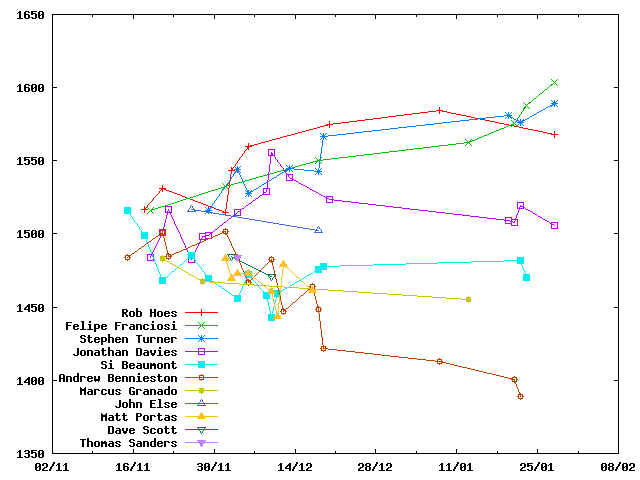
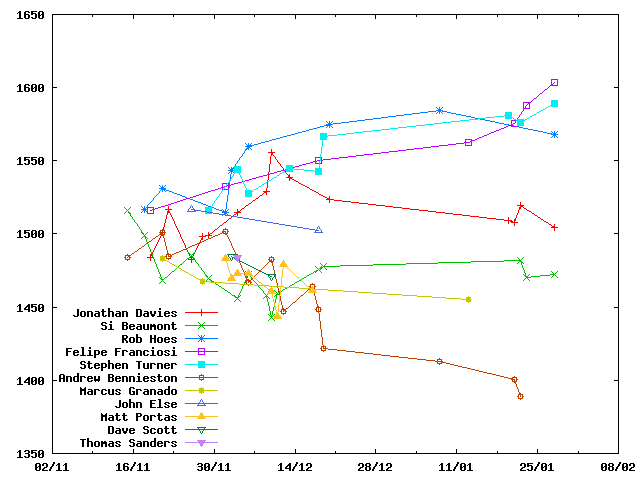
Travis build 88 pushed to gh-pages

diff --git a/index.md b/index.md
@@ -6,15 +6,16 @@ layout: default
      1.  Felipe Franciosi                   1603  (7 / 7)
      2.  Stephen Turner                     1589  (9.5 / 12)
      3.  Rob Hoes                           1568  (7 / 9)
-     4.  Jonathan Davies                    1505  (10 / 19)
+     4.  Jonathan Davies                    1504  (10.5 / 20)
      5.  John Else                          1502  (1 / 2)
      6.  Thomas Sanders                     1483  (0 / 1)
-     7.  Dave Scott                         1470  (0 / 2)
-     8.  Si Beaumont                        1470  (6.5 / 16)
+     7.  Si Beaumont                        1472  (7 / 17)
+     8.  Dave Scott                         1470  (0 / 2)
      9.  Matt Portas                     ☠  1461  (5 / 13)
     10.  Marcus Granado                     1454  (0 / 3)
     11.  Andrew Bennieston                  1389  (5 / 18)
 ### Games
+    2014-01-28:          Si Beaumont - Jonathan Davies         0.5 - 0.5
     2014-01-28:     Felipe Franciosi - Rob Hoes                  1 - 0
     2014-01-28:      Jonathan Davies - Stephen Turner            0 - 1
     2014-01-23:          Si Beaumont - Felipe Franciosi          0 - 1
